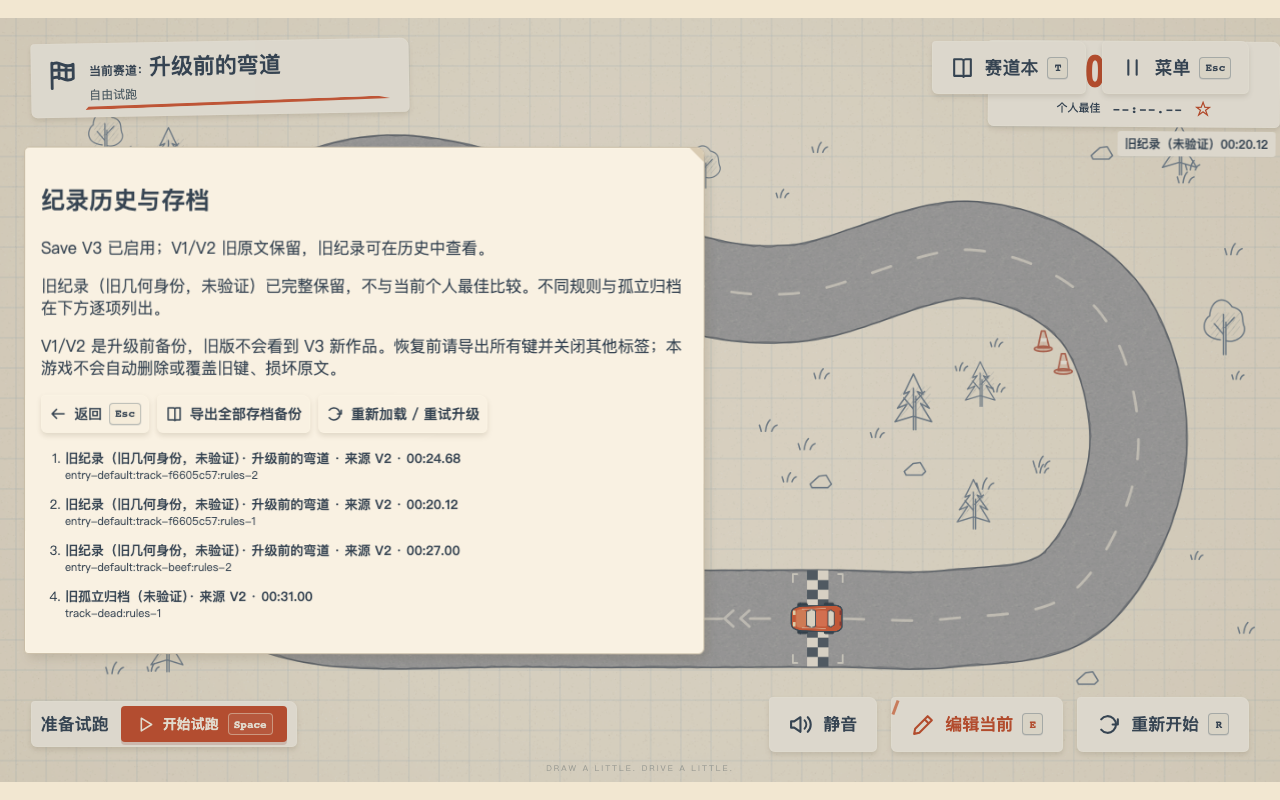
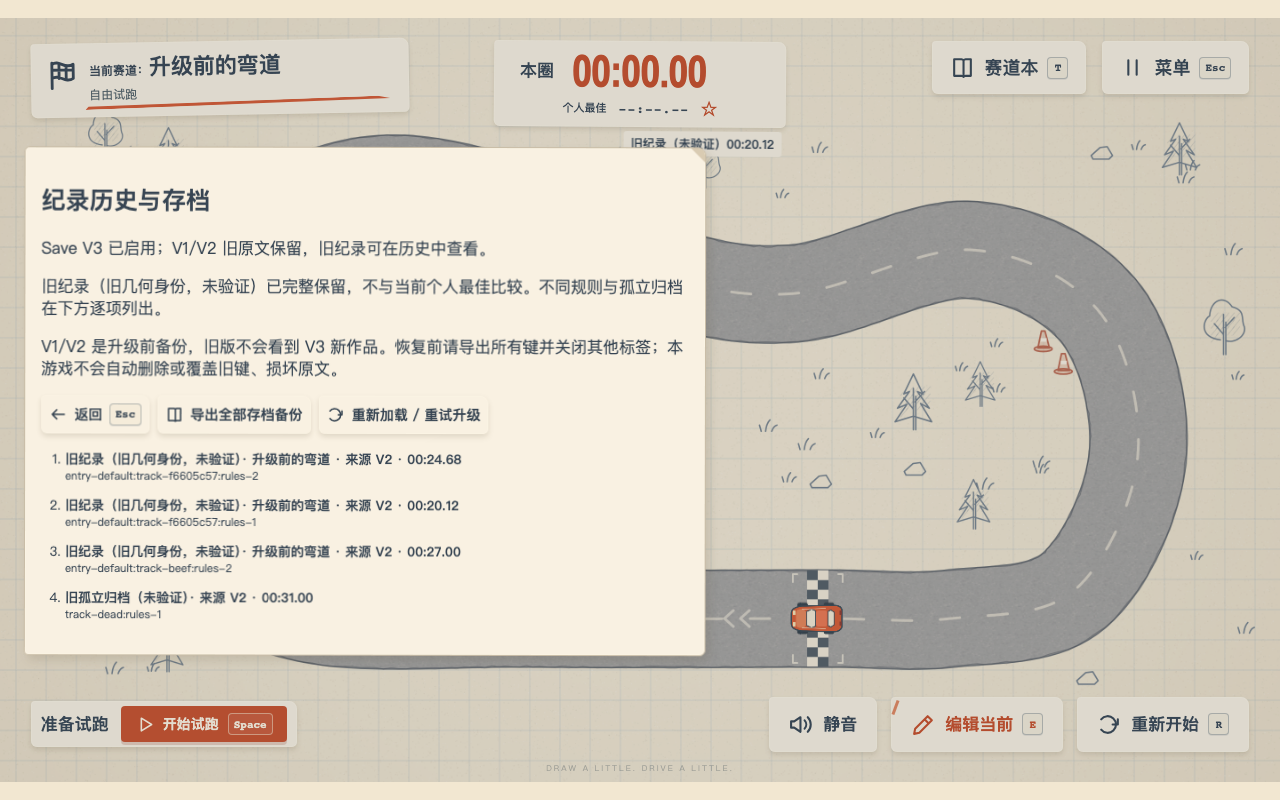
fix: restore centered timing HUD and stable history focus

diff --git a/src/style.css b/src/style.css
@@ -1399,10 +1399,8 @@ button:disabled {
 }
 
 /* Save V3 history stays at the HUD edge; the detailed list is explicit. */
-.timing {
-  position: relative;
-}
-.record-history-open {
+/* Keep this anchor absolute when generic keyboard focus positions buttons. */
+#record-history-open {
   position: absolute;
   right: 4px;
   top: calc(100% + 4px);

diff --git a/docs/save-v3-verification.md b/docs/save-v3-verification.md
@@ -117,3 +117,30 @@ save.ts、storage.ts、geometry.ts、vehicle.ts、laps.ts、config.ts、scene.ts
 - 浏览器验证为 Chromium，未宣称 Safari/Firefox 或用户人工试玩已通过。ES2022 与 Web Locks 是本轮兼容要求。
 
 推送后停在 Code Review，等待用户复审，不自动合并。
+
+## PR #17 第一轮 Review：修复顶部计时 HUD
+
+审查基线 `0c68ed9`。上一轮截图中的计时卡片确实偏到右上，被操作按钮遮挡；原浏览器断言没有检查 HUD 重叠，不能据此判断布局正确。本轮先新增真实页面回归，实际失败于 `1366x768 fresh ready: timing overlaps top actions`，原文记录在 `test-results/hud-review/red.log`。
+
+产品代码只修改 `src/style.css`：删除末尾 `.timing { position: relative; }`，恢复原有 absolute 居中；历史入口使用既有唯一 ID 定位，避免通用键盘焦点的 `position: relative` 在 Esc 返回时把按钮挤回文档流。原有铅笔焦点标记、Tab 和菜单返回行为保留，不修改任何 V3 数据、迁移、身份、锁或草稿逻辑。跨规则历史文案本轮保持原样。
+
+新增 `tests/hud-browser.mjs` 与 `npm run test:hud`。三视口分别测试空存档、旧纪录迁入、当前 PB＋旧纪录＋40 字长名、配额失败共 **12 个场景、48 次 DOM 布局采样**。每个场景检查 ready、历史返回、running、驾驶中打开历史并返回 paused：
+
+- `.timing` 与 `.top-actions`、左侧赛道名卡片不相交，水平中心与真实 Phaser canvas 相差不超过 1px。
+- 卡片、计时/PB 行、文本 Range 与历史入口均在游戏面板/视口内；文本无裁切，九点 `elementFromPoint` 检查没有被其他元素遮挡。
+- 历史入口不与本圈/PB 相交；Esc 返回后焦点仍在入口，ready 卡片边界逐项相同；驾驶返回后仍暂停、计时不继续。
+- 不关闭原有动效；中心与边界检查等待卡片实际 Web Animation 结束，避免把合法暂停缩放的中间帧误判成静态布局偏移。
+
+| 当前 PB＋长名场景 | 卡片中心误差 | 距右侧操作区间隔 | 实际修后截图                                      |
+| ----------------- | ------------ | ---------------- | ------------------------------------------------- |
+| 1366×768          | 0.008px      | 149.01px         | [HUD](screenshots/p1-05b-02a-review-hud-1366.png) |
+| 1280×800          | 0.008px      | 146.17px         | [HUD](screenshots/p1-05b-02a-review-hud-1280.png) |
+| 900×700           | 0.016px      | 56.37px          | [HUD](screenshots/p1-05b-02a-review-hud-900.png)  |
+
+三张截图同时展示本圈计时、当前 PB 00:34.56 和旧纪录提示。原有三尺寸 HUD/卡片/历史共 9 张截图也由本轮真实 storage 测试重新生成，替换错误布局版本。实际 running 截图、完整 DOM 边界与控制台/请求记录在 `test-results/hud-review/`。
+
+最终结果：**105/105 单元、64/64 浏览器检查**（HUD 12、storage 15、browser 15、menu 13、focus 9），typecheck/build、格式与 diff 检查通过；所有本轮报告的控制台/请求错误为 0，构建仅保留既有 Phaser chunk 提示。
+
+本轮执行：`npm test`、`npm run build`（含 typecheck）、`test:hud`、`test:storage`、`test:browser`、`test:menu`、`test:focus`。浏览器均使用隔离无头 Chromium，串行执行并释放资源，不接管日常浏览器或桌面。最终套件结果见同目录 `regressions.json` 与 `summary.json`；未将上一轮全部 170 项声称为本轮重跑。
+
+实际修改文件：`src/style.css`、`tests/hud-browser.mjs`、`package.json`、`README.md`、本报告、`docs/verification.md`，以及上表 3 张新截图和 9 张更新截图。不修改其他产品模块，继续停在 Code Review。

diff --git a/README.md b/README.md
@@ -73,6 +73,7 @@ npm run test:handling
 npm run test:editor
 npm run test:draft
 npm run test:storage
+npm run test:hud
 npm run test:trackbook
 ```
 
@@ -95,6 +96,8 @@ npm run test:trackbook
 `test:editor` 用真实指针绘制接近报错截图的路线和带手抖的路线，检查闭合提示、R/Enter/Esc、输入焦点、拖画中断恢复和三种桌面尺寸。报告与截图保存在 `test-results/editor/`。
 
 `test:storage` 检查真实 localStorage 的 V1/V2→V3 迁移、全部旧纪录历史与原文字节、当前 PB 隔离、WebCrypto 摘要、整圈改线/改名/刷新、真实第二标签锁、旧客户端冲突、损坏/未知 V3、配额失败重试、受限存储驾驶及旧/新整笔草稿归属。报告与三尺寸截图保存在 `test-results/storage/`，本轮实测见 [Save V3 验证](docs/save-v3-verification.md)。
+
+`test:hud` 用真实 DOM 边界、文本范围和页面命中检查三桌面尺寸的计时卡片居中、顶部不重叠、计时/PB/历史完整可见，以及历史面板返回后的键盘焦点与布局；覆盖空存档、旧纪录、当前 PB、长名称及配额错误。截图与 48 次布局测量保存在 `test-results/hud-review/`。
 
 `test:trackbook` 从真实鼠标新建 B 开始，检查 A/B 切换与刷新恢复、车辆/圈速/HUD/输入/声音同步、改名、编辑取消、删除确认、容量上限、配额与存储拒绝下的失败重试，以及三种桌面尺寸与键盘焦点。还检查长/短赛道名、新建/编辑意图、暂停和通知的道路/车辆遮挡，并通过真实键盘有效圈触发新纪录截图。P1-03 扩展检查 T/E/N/Space/R、分层 Esc、输入/IME/组合键、原生按钮激活、真实 SVG 与成绩、20 条内部滚动、失败不闪成功、动画中断与 reduced motion。报告与截图保存在 `test-results/trackbook/`，`drawer-*.png`、`switch-ready-*.png` 为 P1-03 抽屉与切换验收画面，`ux-*.png` 保留名称、绘图和通知回归。
 
